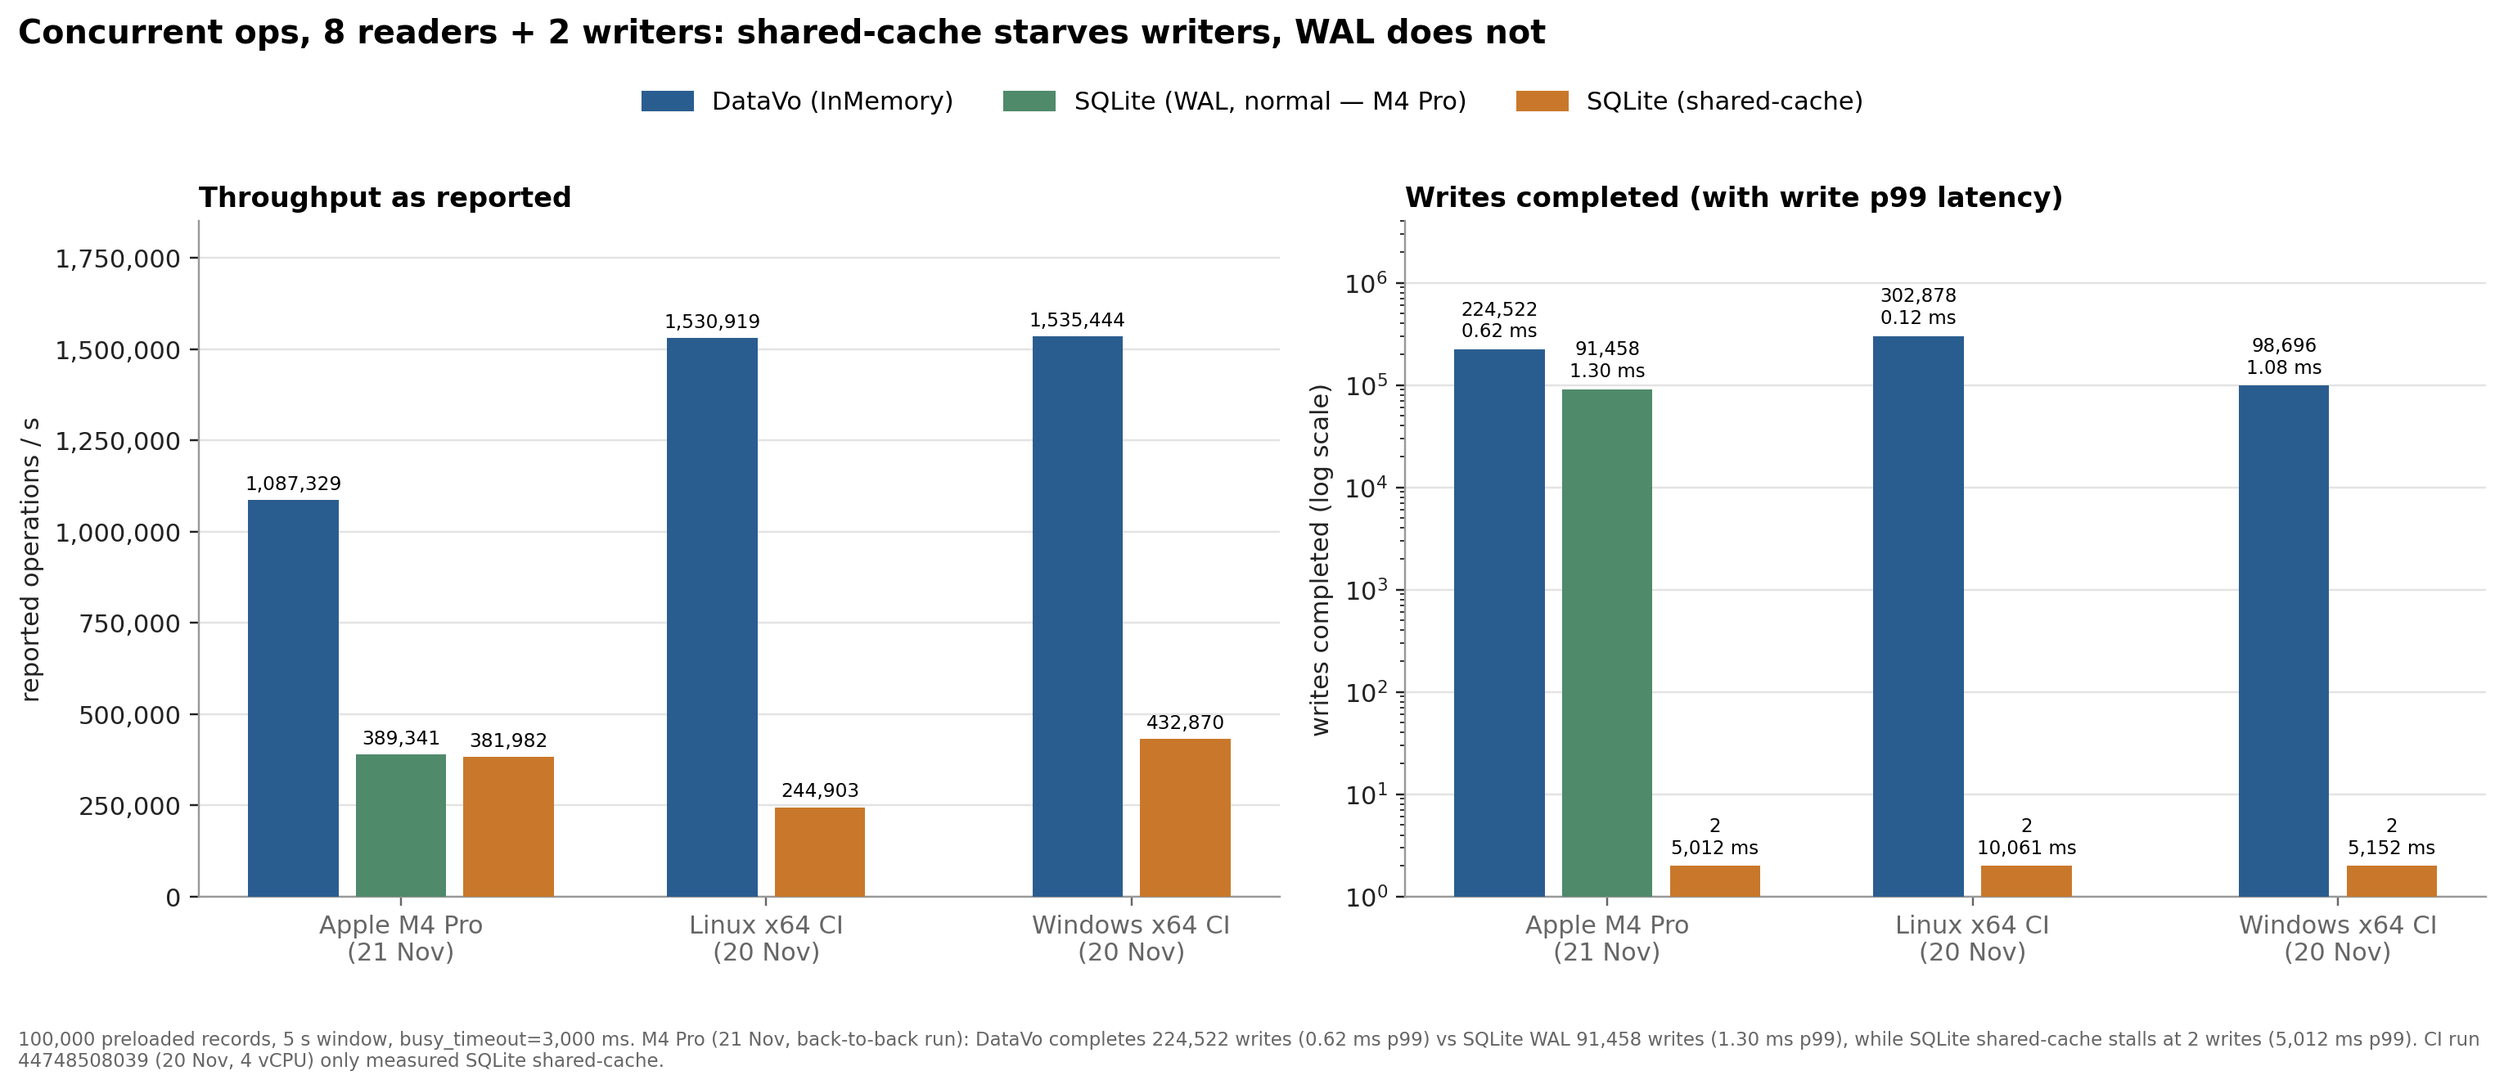
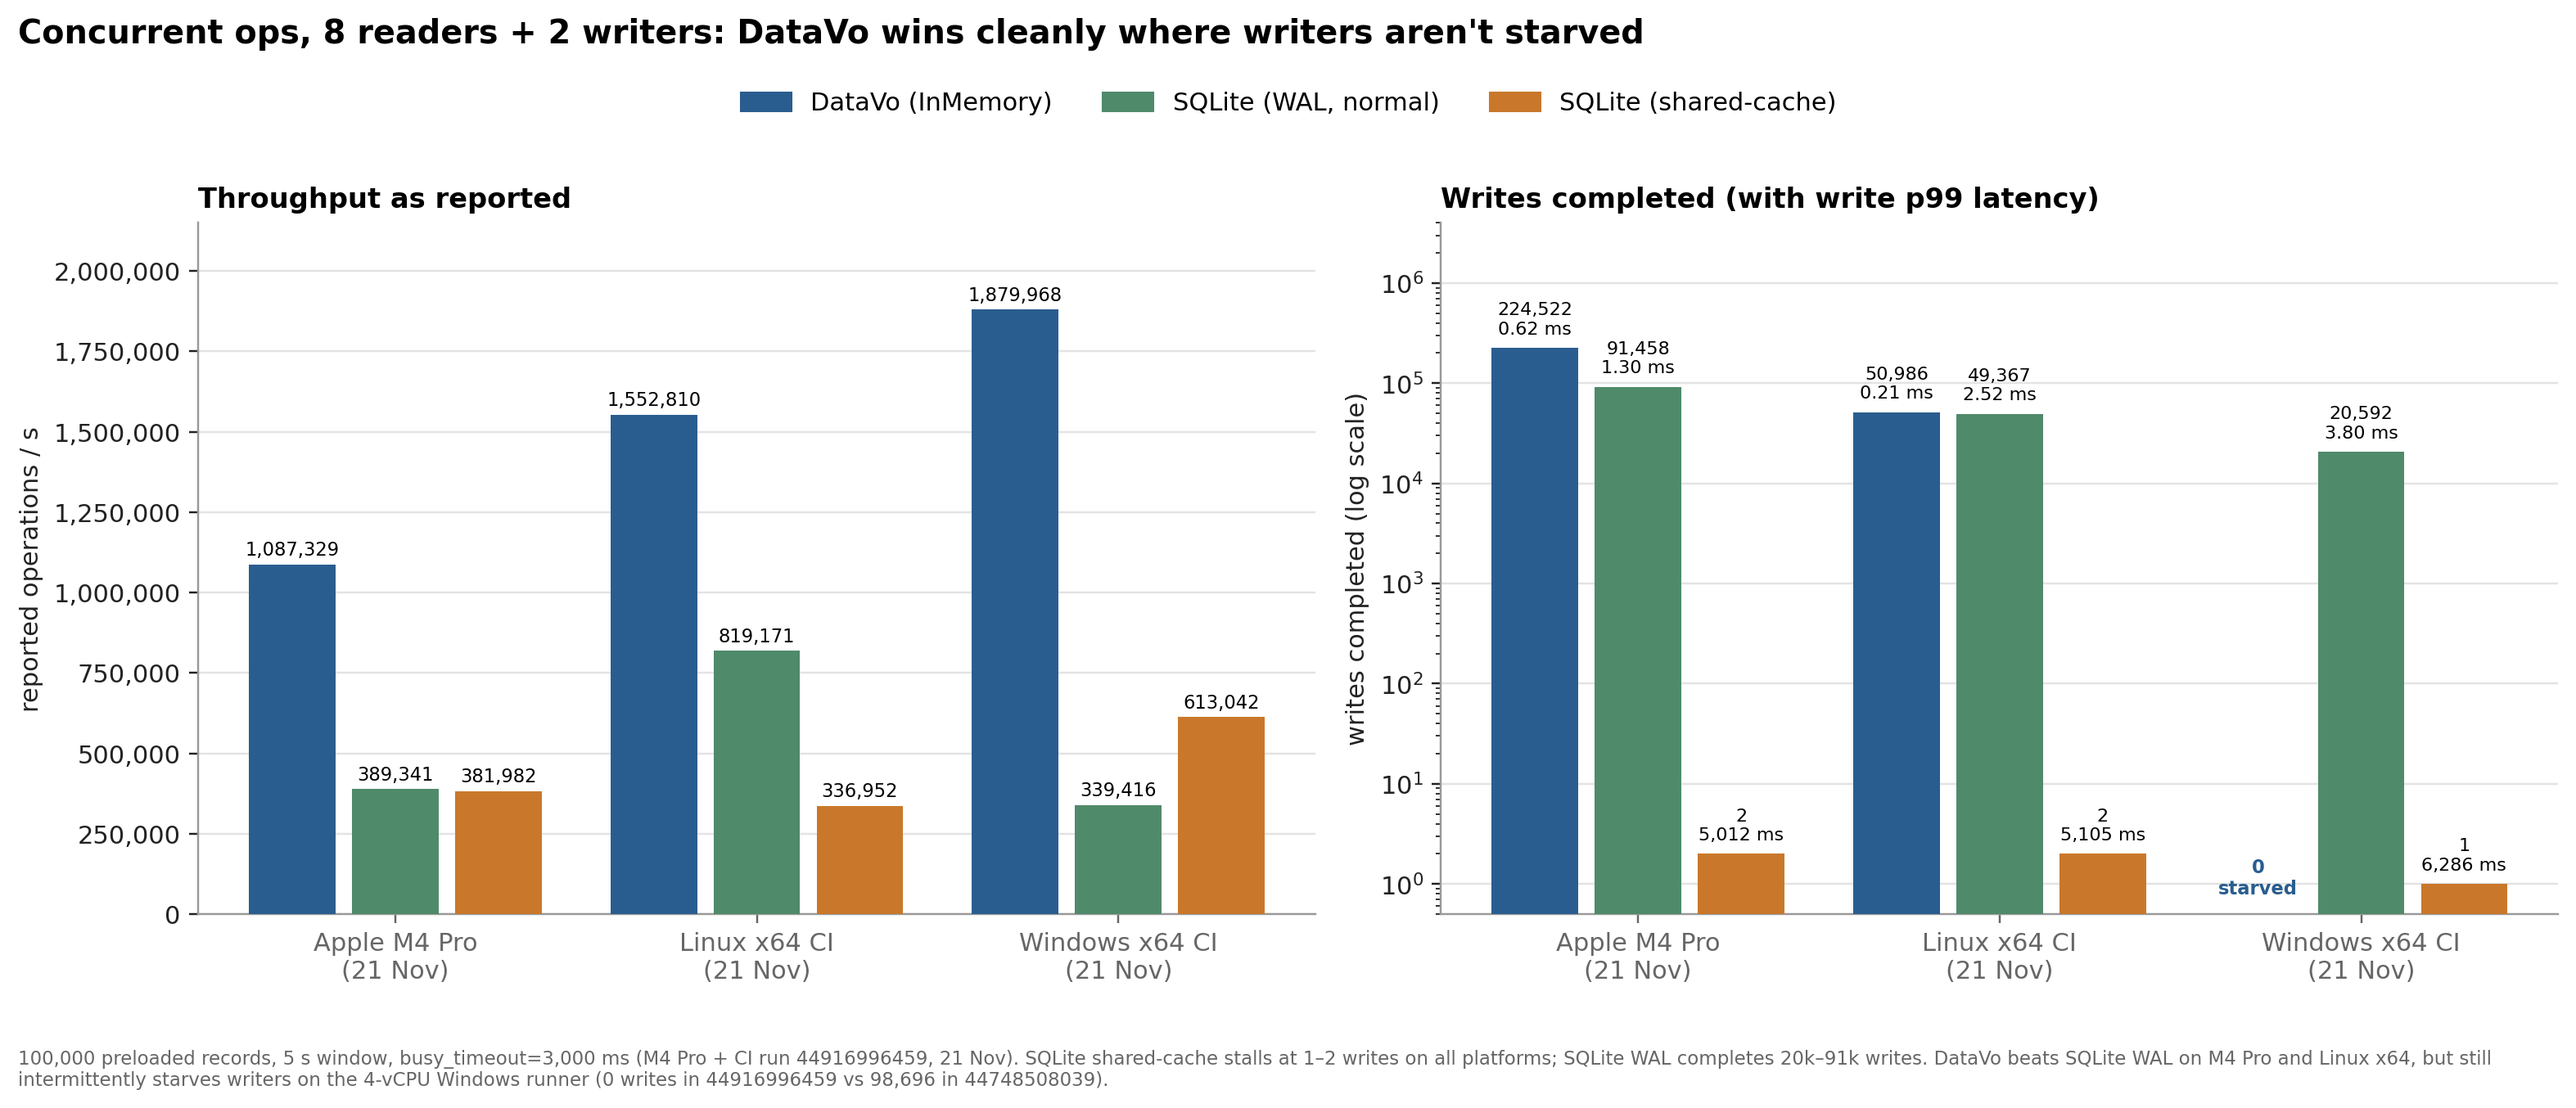
docs(blog): update concurrent-ops CI numbers and 21 Nov dates from run 44916996459

diff --git a/docs/public/blog/part-1/make_charts.py b/docs/public/blog/part-1/make_charts.py
@@ -196,7 +196,7 @@ def chart3():
 # =============================================================================
 # Chart 4: concurrent ops, 8 readers + 2 writers, 5 s
 # Source: docs/public/benchmarks/2026-11-21-m4pro/concurrent-ops.md (Apple M4 Pro)
-#         & linux-x64-net10-benchmark.log / windows-x64-net10-benchmark.log (CI run 44748508039)
+#         & docs/public/benchmarks/2026-11-21-ci/concurrent-ops.md (CI run 44916996459)
 # =============================================================================
 def chart4():
     data = {
@@ -205,53 +205,58 @@ def chart4():
             ("SQLite (WAL, normal)", GREEN, dict(ops=389341, writes=91458, wp99=1.299083)),
             ("SQLite (shared-cache)", ORANGE, dict(ops=381982, writes=2, wp99=5011.840208)),
         ],
-        "Linux x64 CI\n(20 Nov)": [
-            ("DataVo (InMemory)", BLUE, dict(ops=1530919, writes=302878, wp99=0.124786)),
-            ("SQLite (shared-cache)", ORANGE, dict(ops=244903, writes=2, wp99=10061.055113)),
+        "Linux x64 CI\n(21 Nov)": [
+            ("DataVo (InMemory)", BLUE, dict(ops=1552810, writes=50986, wp99=0.212443)),
+            ("SQLite (WAL, normal)", GREEN, dict(ops=819171, writes=49367, wp99=2.515437)),
+            ("SQLite (shared-cache)", ORANGE, dict(ops=336952, writes=2, wp99=5105.391351)),
         ],
-        "Windows x64 CI\n(20 Nov)": [
-            ("DataVo (InMemory)", BLUE, dict(ops=1535444, writes=98696, wp99=1.0843)),
-            ("SQLite (shared-cache)", ORANGE, dict(ops=432870, writes=2, wp99=5151.9354)),
+        "Windows x64 CI\n(21 Nov)": [
+            ("DataVo (InMemory)", BLUE, dict(ops=1879968, writes=0, wp99=0.0)),
+            ("SQLite (WAL, normal)", GREEN, dict(ops=339416, writes=20592, wp99=3.796100)),
+            ("SQLite (shared-cache)", ORANGE, dict(ops=613042, writes=1, wp99=6286.278600)),
         ],
     }
-    fig, (a, b) = plt.subplots(1, 2, figsize=(14.0, 5.6))
-    w = 0.295
+    fig, (a, b) = plt.subplots(1, 2, figsize=(14.4, 5.7))
+    w = 0.285
     for i, plat in enumerate(data):
         entries = data[plat]
         n = len(entries)
         for j, (eng, colr, d) in enumerate(entries):
             x = i + (j - (n - 1) / 2.0) * w
             a.bar(x, d["ops"], w * 0.84, color=colr, zorder=3)
-            a.text(x, d["ops"] + 28000, f"{d['ops']:,}", ha="center", fontsize=7.6)
-            b.bar(x, d["writes"], w * 0.84, color=colr, zorder=3)
-            p99_lbl = f"{d['wp99']:,.0f} ms" if d["wp99"] >= 100 else f"{d['wp99']:,.2f} ms"
-            b.text(x, d["writes"] * 1.32, f"{d['writes']:,}\n{p99_lbl}", ha="center", fontsize=7.5)
+            a.text(x, d["ops"] + 28000, f"{d['ops']:,}", ha="center", fontsize=7.4)
+            if d["writes"] == 0:
+                b.text(x, 0.72, "0\nstarved", ha="center", va="bottom", fontsize=7.4, color=BLUE, fontweight="bold")
+            else:
+                b.bar(x, max(d["writes"] - 0.5, 0.5), w * 0.84, bottom=0.5, color=colr, zorder=3)
+                p99_lbl = f"{d['wp99']:,.0f} ms" if d["wp99"] >= 100 else f"{d['wp99']:,.2f} ms"
+                b.text(x, d["writes"] * 1.38, f"{d['writes']:,}\n{p99_lbl}", ha="center", fontsize=7.3)
     for ax in (a, b):
         ax.set_xticks([0, 1, 2])
         ax.set_xticklabels(list(data))
         ax.grid(axis="y", color=GRID, zorder=0)
-    a.set_ylim(0, 1850000)
+    a.set_ylim(0, 2150000)
     a.yaxis.set_major_formatter(matplotlib.ticker.FuncFormatter(lambda v, _: f"{v:,.0f}"))
     a.set_ylabel("reported operations / s")
     a.set_title("Throughput as reported")
     b.set_yscale("log")
-    b.set_ylim(1, 4e6)
+    b.set_ylim(0.5, 4e6)
     b.set_ylabel("writes completed (log scale)")
     b.set_title("Writes completed (with write p99 latency)")
     fig.legend(
         handles=[
             Patch(color=BLUE, label="DataVo (InMemory)"),
-            Patch(color=GREEN, label="SQLite (WAL, normal — M4 Pro)"),
+            Patch(color=GREEN, label="SQLite (WAL, normal)"),
             Patch(color=ORANGE, label="SQLite (shared-cache)"),
         ],
         loc="upper center", ncol=3, frameon=False, bbox_to_anchor=(0.5, 1.0),
     )
-    fig.suptitle("Concurrent ops, 8 readers + 2 writers: shared-cache starves writers, WAL does not",
+    fig.suptitle("Concurrent ops, 8 readers + 2 writers: DataVo wins cleanly where writers aren't starved",
                  fontsize=13, fontweight="bold", x=0.01, ha="left", y=1.05)
     fig.tight_layout(rect=(0, 0.08, 1, 0.97))
-    footer(fig, "100,000 preloaded records, 5 s window, busy_timeout=3,000 ms. "
-                "M4 Pro (21 Nov, back-to-back run): DataVo completes 224,522 writes (0.62 ms p99) vs SQLite WAL 91,458 writes (1.30 ms p99), while SQLite shared-cache stalls at 2 writes (5,012 ms p99). "
-                "CI run 44748508039 (20 Nov, 4 vCPU) only measured SQLite shared-cache.")
+    footer(fig, "100,000 preloaded records, 5 s window, busy_timeout=3,000 ms (M4 Pro + CI run 44916996459, 21 Nov). "
+                "SQLite shared-cache stalls at 1–2 writes on all platforms; SQLite WAL completes 20k–91k writes. "
+                "DataVo beats SQLite WAL on M4 Pro and Linux x64, but still intermittently starves writers on the 4-vCPU Windows runner (0 writes in 44916996459 vs 98,696 in 44748508039).")
     save(fig, "04-concurrent-ops.png")
 
 

diff --git a/docs/blog/part-1-where-it-wins-and-where-it-loses.md b/docs/blog/part-1-where-it-wins-and-where-it-loses.md
@@ -130,8 +130,8 @@ Where a benchmark harness lacked a matched `SQLite WAL FULL` row, I state that e
 | Environment | Hardware | Runtime | Used for |
 | --- | --- | --- | --- |
 | Apple M4 Pro | 12 cores, 48 GiB, APFS SSD | .NET 10.0.3, macOS 26.3 | BDN lookups/aggregates, concurrent-ops & space-recovery (`02fa240f`, 20–21 Nov), SQL/vector matrix (17 Nov), sync/update workloads (12 Nov) |
-| Linux x64 CI | AMD EPYC 9V45, 4 logical / 2 physical cores | .NET 10.0.15, Ubuntu 26.04 | BenchmarkDotNet and research matrix, run `44748508039` (20 Nov) |
-| Windows x64 CI | Xeon Platinum 8370C, 4 logical / 2 physical cores (Hyper-V) | .NET 10.0.15, Windows 11 24H2 | same run (`44748508039`, 20 Nov) |
+| Linux x64 CI | AMD EPYC 9V45, 4 logical / 2 physical cores | .NET 10.0.15, Ubuntu 26.04 | BenchmarkDotNet and research matrix, run `44748508039` (20 Nov); `concurrent-ops` WAL re-run `44916996459` (21 Nov) |
+| Windows x64 CI | Xeon Platinum 8370C, 4 logical / 2 physical cores (Hyper-V) | .NET 10.0.15, Windows 11 24H2 | runs `44748508039` (20 Nov) and `concurrent-ops` WAL re-run `44916996459` (21 Nov) |
 | Sync CI | Ubuntu 26.04 x64, **2 vCPU**, PostgreSQL 17.12, ElectricSQL `1.8.1` in Docker | .NET 10.0.15 | DataVo-Sync E2E and 1,000-client stress, run `44756364158` (20 Nov) |
 
 </details>
@@ -315,7 +315,7 @@ Inserting **1,000,000 records** in one batch, closing the database, and reopenin
 
 The concurrent-ops scenario runs **8 reader threads and 2 writer threads for 5 seconds** against 100,000 in-memory records.
 
-On 12 November (`0.2.0-rc.3`), DataVo's writers starved completely (**0 writes completed**) on the 4-core CI runners. Between 12 November and 20 November (`02fa240f`), a series of concurrency fixes landed—commit-ordered snapshots, bounded waits on the snapshot gate, corrected write-lock owner accounting, and coordination between row and table write locks—and writes now proceed on all three platforms. I have not bisected those commits, so I cannot yet point to the exact single change that eliminated the starvation; I would prefer to have that answer, and will revisit it in Part 3.
+On 12 November (`0.2.0-rc.3`), DataVo's writers starved completely (**0 writes completed**) on the 4-core CI runners. Between 12 November and 20 November (`02fa240f`), a series of concurrency fixes landed—commit-ordered snapshots, bounded waits on the snapshot gate, corrected write-lock owner accounting, and coordination between row and table write locks—so writers completed on both CI runners in `44748508039` (`302,878` writes on Linux, `98,696` writes on Windows). However, in our 21 November re-measurement (`44916996459`), starvation still triggered intermittently under heavy oversubscription (10 active workers on 4 logical cores): DataVo completed `224,522` writes on Apple M4 Pro and `50,986` writes on Linux x64, but stalled at **0 writes** (`9,297 ms` total runtime) on Windows x64 CI. We will isolate that Windows lock/scheduling interaction in Part 3.
 
 We can visualize concurrent contention under multiple threads in Figure 8:
 
@@ -328,12 +328,17 @@ We can visualize concurrent contention under multiple threads in Figure 8:
 | **Apple M4 Pro** (`02fa240f`, 21 Nov) | DataVo (`InMemory`) | **1,087,329** | 5,214,990 | **224,522** | 0.190 ms | **0.620 ms** |
 | **Apple M4 Pro** (`02fa240f`, 21 Nov) | SQLite (`WAL, normal`) | 389,341 | 1,857,503 | 91,458 | 0.142 ms | 1.299 ms |
 | **Apple M4 Pro** (`02fa240f`, 21 Nov) | SQLite (`shared-cache`) | 381,982 | 1,914,864 | 2 | **0.111 ms** | 5,012 ms |
-| Linux x64 CI (20 Nov) | DataVo (`InMemory`) | **1,530,919** | 20,405,025 | **302,878** | 0.007 ms | **0.125 ms** |
-| Linux x64 CI (20 Nov) | SQLite (`shared-cache`) | 244,903 | 2,464,746 | 2 | 0.118 ms | 10,061 ms |
-| Windows x64 CI (20 Nov) | DataVo (`InMemory`) | **1,535,444** | 21,194,024 | **98,696** | 0.009 ms | **1.084 ms** |
-| Windows x64 CI (20 Nov) | SQLite (`shared-cache`) | 432,870 | 2,231,788 | 2 | 0.041 ms | 5,152 ms |
+| **Linux x64 CI** (`44916996459`, 21 Nov) | DataVo (`InMemory`) | **1,552,810** | 7,719,876 | **50,986** | **0.006 ms** | **0.212 ms** |
+| **Linux x64 CI** (`44916996459`, 21 Nov) | SQLite (`WAL, normal`) | 819,171 | 4,048,881 | 49,367 | 0.178 ms | 2.515 ms |
+| **Linux x64 CI** (`44916996459`, 21 Nov) | SQLite (`shared-cache`) | 336,952 | 1,721,428 | 2 | 0.095 ms | 5,105 ms |
+| **Windows x64 CI** (`44916996459`, 21 Nov) | DataVo (`InMemory`) | **1,879,968** | 17,477,611 | **0** *(starved)* | **0.006 ms** | — *(0 writes)* |
+| **Windows x64 CI** (`44916996459`, 21 Nov) | SQLite (`WAL, normal`) | 339,416 | 2,375,126 | **20,592** | 0.206 ms | **3.796 ms** |
+| **Windows x64 CI** (`44916996459`, 21 Nov) | SQLite (`shared-cache`) | 613,042 | 3,855,821 | 1 | 0.012 ms | 6,286 ms |
 
-The SQLite `shared-cache` rows require an important explanation: why only **2 writes**? `SqliteConcurrentOpsEngine` originally opened only `mode=memory&cache=shared`, which does not support WAL and takes table-level shared-cache locks (`SQLITE_LOCKED`), so 8 continuous readers starve the 2 writers until `PRAGMA busy_timeout = 3000` expires repeatedly (stretching the nominal 5-second window to `10,064 ms` on Linux and `5,156 ms` on Windows). To compare DataVo against SQLite's actual non-blocking concurrent reader/writer mode rather than a shared-cache lock artifact, we added a file-backed `SQLite (WAL, normal)` comparator (`journal_mode=WAL`, `synchronous=NORMAL`) to `SqliteConcurrentOpsEngine` and re-measured all three engines back-to-back on the Apple M4 Pro: in WAL mode SQLite completes **91,458 writes** at **1.299 ms** write p99 (zero starvation), while DataVo (`InMemory`) still delivers **2.79×** higher overall throughput (**1,087,329 ops/s**), **2.45×** more completed writes (**224,522**), and **2.1×** lower write p99 latency (**0.620 ms**).
+Two distinct behaviours jump out of the full 21 November matrix:
+
+1. **Why SQLite `shared-cache` completes only 1–2 writes everywhere.** `SqliteConcurrentOpsEngine` originally opened only `mode=memory&cache=shared`, which does not support WAL and takes table-level locks (`SQLITE_LOCKED`), so 8 continuous readers starve both writers until `PRAGMA busy_timeout = 3000` expires repeatedly (`5,012–6,286 ms` write p99). Adding a file-backed `SQLite (WAL, normal)` comparator (`journal_mode=WAL`, `synchronous=NORMAL`) eliminates SQLite's starvation across every OS (**91,458** writes on Apple M4 Pro, **49,367** on Linux CI, and **20,592** on Windows CI).
+2. **Where DataVo wins and where it loses against SQLite `WAL, normal`.** Where DataVo's writers are not starved, DataVo beats `SQLite (WAL, normal)` cleanly: on Apple M4 Pro it delivers **2.79×** higher overall throughput (`1,087,329` vs `389,341` ops/s), **2.45×** more completed writes, and **2.1×** lower write p99 latency (`0.620 ms` vs `1.299 ms`); on Linux x64 CI it delivers **1.90×** higher overall throughput (`1,552,810` vs `819,171` ops/s), comparable completed writes (`50,986` vs `49,367`), **29.7×** lower read p99 (`0.006 ms` vs `0.178 ms`), and **11.9×** lower write p99 (`0.212 ms` vs `2.515 ms`). On the 4-vCPU Windows Hyper-V runner, however, `SQLite (WAL, normal)` sustained steady progress (`20,592` writes at `3.796 ms` p99) while DataVo's writers starved in this run (`0` writes; `9,297 ms` runtime), so mixed-contention reliability under Windows 4-vCPU oversubscription remains an open fix.
 
 ---
 
@@ -435,6 +440,6 @@ db.Execute("CREATE TABLE Notes (Id INT PRIMARY KEY, Tag VARCHAR(32), Embedding V
 
 ### Data sources
 
-- DataVo-DBMS: `README.md`, `docs/manual/performance/benchmarks.md`, `docs/manual/performance/datavo-vs-sqlite.md`, and raw results under `docs/public/benchmarks/` (`2026-11-12`, `2026-11-16-v04-final`, `2026-11-17-engine-perf-followups`, `2026-11-21-m4pro`).
-- Apple M4 Pro BenchmarkDotNet (`02fa240f`, 20 Nov 2026, `--job short`), local M4 Pro `concurrent-ops` (including `SQLite WAL NORMAL`) and `space-and-recovery` (`02fa240f`, 21 Nov 2026, saved under `docs/public/benchmarks/2026-11-21-m4pro/`), plus CI run `44748508039` (`master` @ `02fa240f`, Linux & Windows x64).
+- DataVo-DBMS: `README.md`, `docs/manual/performance/benchmarks.md`, `docs/manual/performance/datavo-vs-sqlite.md`, and raw results under `docs/public/benchmarks/` (`2026-11-12`, `2026-11-16-v04-final`, `2026-11-17-engine-perf-followups`, `2026-11-21-m4pro`, `2026-11-21-ci`).
+- Apple M4 Pro BenchmarkDotNet (`02fa240f`, 20 Nov 2026, `--job short`), local M4 Pro `concurrent-ops` and `space-and-recovery` (`02fa240f`, 21 Nov 2026, under `docs/public/benchmarks/2026-11-21-m4pro/`), CI run `44748508039` (`master` @ `02fa240f`, 20 Nov 2026, Linux & Windows x64), and CI re-run `44916996459` (`21 Nov 2026`, Linux & Windows x64 `concurrent-ops` with `SQLite WAL NORMAL` under `docs/public/benchmarks/2026-11-21-ci/`).
 - DataVo-Sync CI run `44756364158` (20 Nov 2026, Ubuntu 26.04 x64, PG 17.12, ElectricSQL `1.8.1`): `compare.md`, `e2e.md`, `stress-10-100-1000.md`.

diff --git a/docs/public/benchmarks/2026-11-21-ci/concurrent-ops.md b/docs/public/benchmarks/2026-11-21-ci/concurrent-ops.md
@@ -1,0 +1,29 @@
+# CI `concurrent-ops` re-measurement — Run `44916996459` (21 Nov 2026)
+
+- **Workflow run:** [`44916996459`](https://github.com/ArintonAkos/DataVo-DBMS/actions/runs/44916996459) (`master` @ `1b1af5a5`, `DataVo.Core` @ `02fa240f`)
+- **Date:** `2026-11-21T15:02:51Z` (Linux) / `2026-11-21T15:03:01Z` (Windows)
+- **Workload:** `--scenario concurrent-ops --format markdown` (`100,000` records, `8` readers + `2` writers for `5 s`, `BusyTimeout = 3s`), including both `SQLite` (`shared-cache`) and `SQLite (WAL,normal)`.
+
+## Linux x64 CI (`ubuntu-latest`, Ubuntu 26.04, `linux-x64-net10`)
+
+- `DataVo [DataVo.Core net10.0]`: `7,719,876` reads + `50,986` writes, `1,552,810` OPS
+- `SQLite` (`shared-cache`): `1,721,428` reads + `2` writes, `336,952` OPS
+- `SQLite (WAL,normal)`: `4,048,881` reads + `49,367` writes, `819,171` OPS
+
+| Engine Name | Total Execution Time (ms) | OPS | Read P99 Latency (ms) | Write P99 Latency (ms) | Total GC Allocated (MB) |
+|---|---:|---:|---:|---:|---:|
+| DataVo [DataVo.Core net10.0] | 5004.387 | 1552809.809 | 0.005835 | 0.212443 | 1045.075 |
+| SQLite | 5108.829 | 336951.951 | 0.094631 | 5105.391351 | 956.031 |
+| SQLite (WAL,normal) | 5002.924 | 819170.565 | 0.178383 | 2.515437 | 2259.116 |
+
+## Windows x64 CI (`windows-latest`, Windows 11 24H2 / 10.0.26100, `windows-x64-net10`)
+
+- `DataVo [DataVo.Core net10.0]`: `17,477,611` reads + `0` writes, `1,879,968` OPS (writers starved on 4 logical cores under 8 continuous reader loops; elapsed stretched to `9296.761 ms`)
+- `SQLite` (`shared-cache`): `3,855,821` reads + `1` writes, `613,042` OPS
+- `SQLite (WAL,normal)`: `2,375,126` reads + `20,592` writes, `339,416` OPS
+
+| Engine Name | Total Execution Time (ms) | OPS | Read P99 Latency (ms) | Write P99 Latency (ms) | Total GC Allocated (MB) |
+|---|---:|---:|---:|---:|---:|
+| DataVo [DataVo.Core net10.0] | 9296.761 | 1879967.866 | 0.006300 | 0.000000 | 1221.277 |
+| SQLite | 6289.653 | 613042.126 | 0.011800 | 6286.278600 | 2175.616 |
+| SQLite (WAL,normal) | 7058.352 | 339416.042 | 0.206100 | 3.796100 | 1326.304 |
